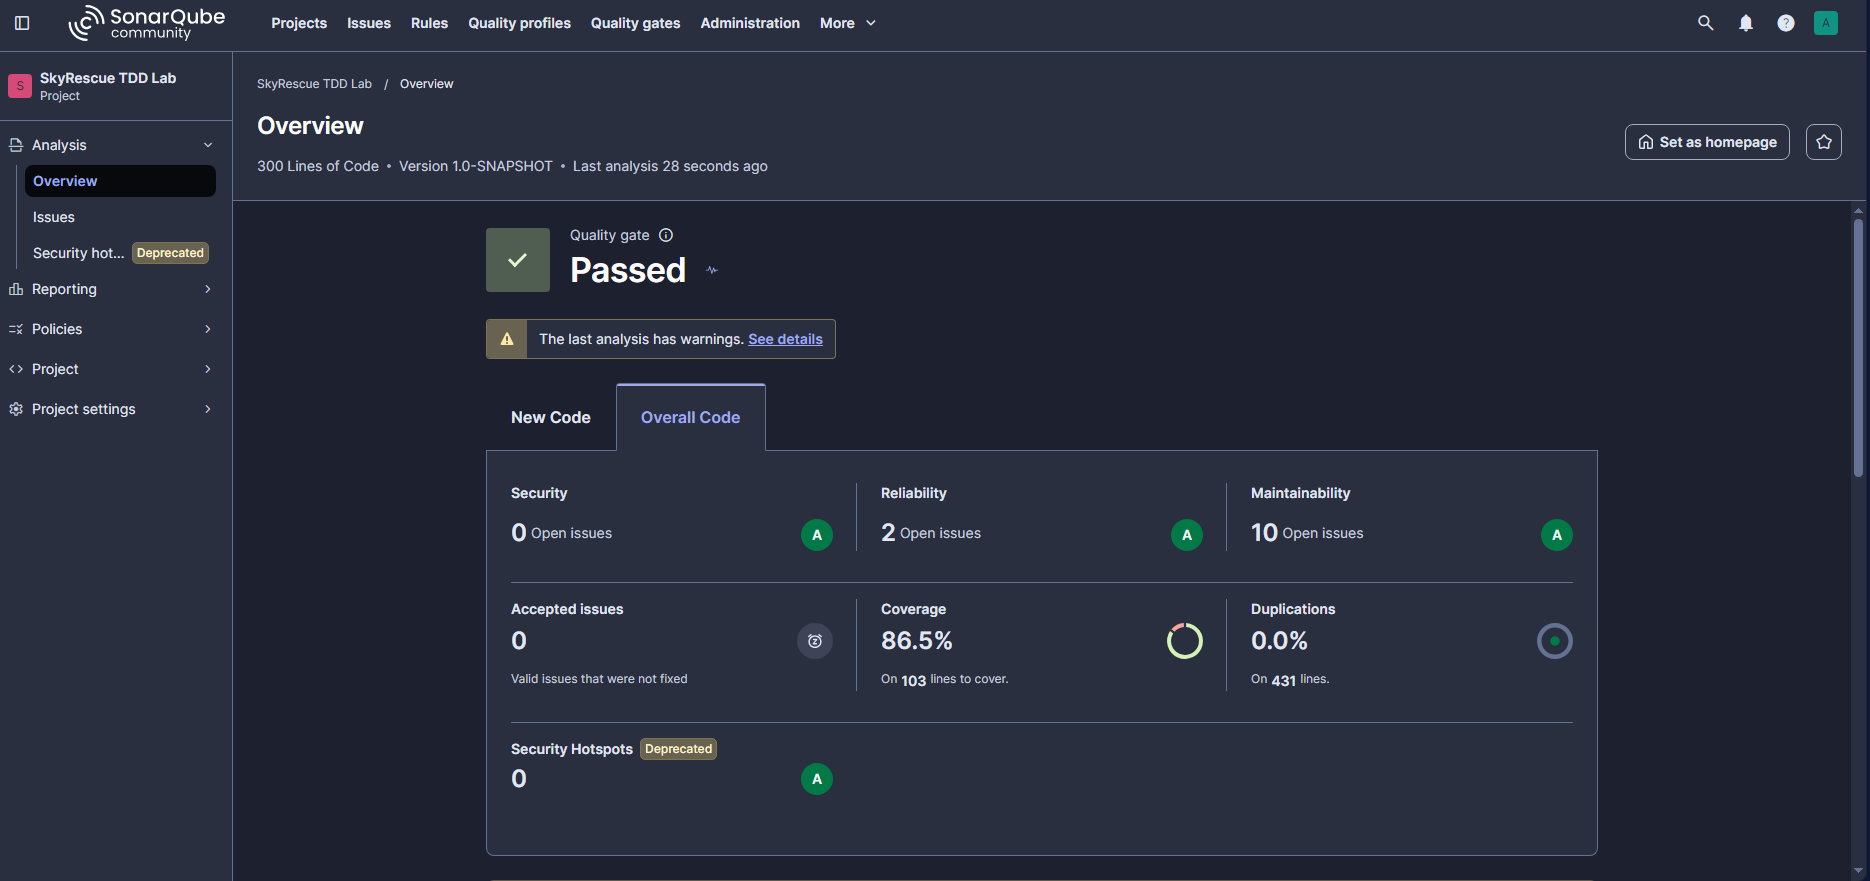
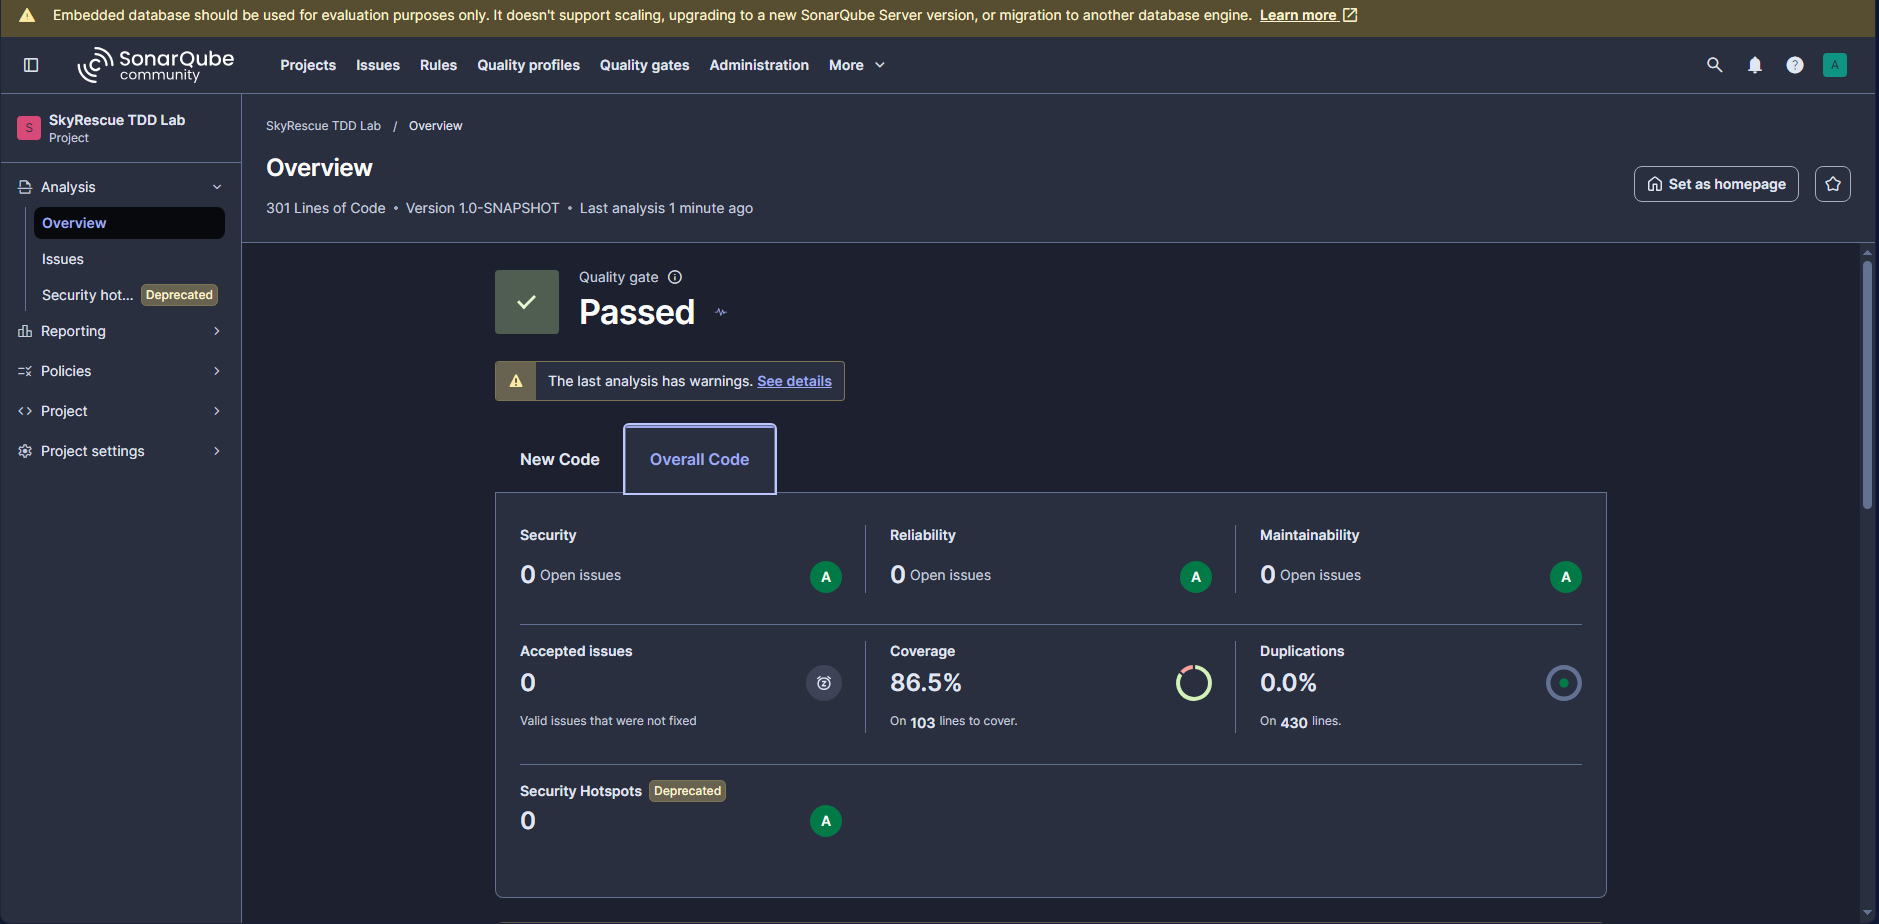
fix: resolve SonarQube issues (timezone, lambda invocations, unused modifiers) and add technical reflection

diff --git a/src/test/java/edu/eci/dosw/tdd/skyrescue/center/RescueCenterTest.java b/src/test/java/edu/eci/dosw/tdd/skyrescue/center/RescueCenterTest.java
@@ -14,7 +14,7 @@ import org.junit.jupiter.api.Test;
 
 import edu.eci.dosw.tdd.skyrescue.drone.Drone;
 
-public class RescueCenterTest {
+class RescueCenterTest {
 
     @Test
     void shouldRegisterDroneWhenDataIsValid() {
@@ -101,8 +101,10 @@ public class RescueCenterTest {
             center.addOperator(operator);
 
         // Act & Assert
+            String operatorId = operator.getId();
+            String droneId = drone.getId();
             assertThrows(IllegalArgumentException.class, () ->{
-                center.assignMission(operator.getId(), drone.getId(), "Zona A", 40);
+                center.assignMission(operatorId, droneId, "Zona A", 40);
         });
     }
 
@@ -114,8 +116,10 @@ public class RescueCenterTest {
             drone.setAvailable(false);
 
         // Act & Assert
+            String operatorId = operator.getId();
+            String droneId = drone.getId();
             assertThrows(IllegalStateException.class, () ->{
-                center.assignMission(operator.getId(), drone.getId(), "Zona A", 40);
+                center.assignMission(operatorId, droneId, "Zona A", 40);
         });
             
     }
@@ -128,8 +132,10 @@ public class RescueCenterTest {
 
 
         // Act & Assert
+            String operatorId = operator.getId();
+            String droneId = drone.getId();
             assertThrows(IllegalArgumentException.class, () ->{
-                center.assignMission(operator.getId(), drone.getId(), "Zona A", 60);
+                center.assignMission(operatorId, droneId, "Zona A", 60);
         });
             
     }
@@ -141,8 +147,10 @@ public class RescueCenterTest {
             center.addDrone(drone);
 
         // Act & Assert
+            String operatorId = operator.getId();
+            String droneId = drone.getId();
             assertThrows(IllegalArgumentException.class, () ->{
-                center.assignMission(operator.getId(), drone.getId(), "Zona A", 40);
+                center.assignMission(operatorId, droneId, "Zona A", 40);
         });
     }
 
@@ -156,8 +164,10 @@ public class RescueCenterTest {
             center.assignMission(operator.getId(), drone.getId(), "Zona A", 40);
 
         // Act & Assert
+            String operatorId = operator.getId();
+            String droneId = secondDrone.getId();
             assertThrows(IllegalStateException.class, () ->{
-                    center.assignMission(operator.getId(), secondDrone.getId(), "Zona A", 40);
+                    center.assignMission(operatorId, droneId, "Zona A", 40);
             });
     }
 
@@ -194,9 +204,11 @@ public class RescueCenterTest {
             center.completeMission(createdMission.getId());
 
         // Act & Assert
-            assertThrows(IllegalStateException.class, () ->{
-                    center.completeMission(createdMission.getId());
-            });
+            String missionId = createdMission.getId();
+
+            assertThrows(IllegalStateException.class, () -> {
+                center.completeMission(missionId);
+        });
     }
 
     @Test

diff --git a/src/main/java/edu/eci/dosw/tdd/skyrescue/center/RescueCenter.java b/src/main/java/edu/eci/dosw/tdd/skyrescue/center/RescueCenter.java
@@ -11,6 +11,7 @@ import java.util.List;
 import java.util.Map;
 import java.util.UUID;
 import java.time.LocalDateTime;
+import java.time.ZoneId;
 
 /**
  * Coordinates drones, operators and emergency missions.
@@ -110,7 +111,7 @@ public class RescueCenter {
         foundDrone.setAvailable(false);
         String id = UUID.randomUUID().toString();
 
-        Mission createdMission = new Mission(id, location, distanceKm, foundDrone, foundOperator, LocalDateTime.now(), MissionStatus.ACTIVE);
+        Mission createdMission = new Mission(id, location, distanceKm, foundDrone, foundOperator, LocalDateTime.now(ZoneId.systemDefault()), MissionStatus.ACTIVE);
 
         boolean result = hasActiveMission(foundOperator);
 
@@ -143,8 +144,6 @@ public class RescueCenter {
      * @return completed mission.
      */
     public Mission completeMission(String missionId) {
-        // TODO Implement using TDD.
-
         Mission foundMission = findMissionById(missionId);
 
         if(foundMission == null){
@@ -156,7 +155,7 @@ public class RescueCenter {
         }
 
         foundMission.setStatus(MissionStatus.COMPLETED);
-        foundMission.setEndDate(LocalDateTime.now());
+        foundMission.setEndDate(LocalDateTime.now(ZoneId.systemDefault()));
         Drone foundDrone = foundMission.getDrone();
         foundDrone.setAvailable(true);
 

diff --git a/README.md b/README.md
@@ -41,6 +41,29 @@ Quality Gate: **Passed**
 - Coverage: 86.5%
 - Duplications: 0.0%
 
+## Reflexión técnica
+
+1. **¿Qué error o comportamiento inesperado fue detectado primero gracias a una prueba?**
+   Al escribir la prueba para "dron inexistente" en `assignMission`, se detectó que el
+   código lanzaba `NullPointerException` en lugar de `IllegalArgumentException`, ya que
+   no existía ninguna validación antes de usar el resultado de `drones.get(droneId)`.
+
+2. **¿Qué parte del código cambió durante REFACTOR sin modificar el comportamiento?**
+   Se extrajo la lógica de búsqueda de operadores y misiones (usando streams de Java)
+   a métodos privados reutilizables (`findOperatorById`, `hasActiveMission`,
+   `findMissionById`), reduciendo la duplicación entre `assignMission` y `completeMission`.
+
+3. **¿Qué casos adicionales aparecieron al revisar la cobertura?**
+   Ninguno; el desarrollo siguiendo TDD desde el inicio ya garantizaba una cobertura
+   de líneas del 88% en la primera ejecución de JaCoCo, superando el mínimo requerido.
+
+4. **¿Qué hallazgo de SonarQube produjo un cambio real en el código?**
+   SonarQube detectó 12 issues de Maintainability y Reliability: 2 llamadas a
+   `LocalDateTime.now()` sin zona horaria explícita, 6 lambdas de prueba con
+   más de una invocación que podía lanzar excepción, 1 comentario TODO
+   pendiente, y 1 modificador `public` innecesario en la clase de test. Los
+   12 se corrigieron, llevando ambas métricas a 0 issues abiertos.
+
 ## Pull Requests
 
 - PR JUnit: https://github.com/Prometeus1439/DOSW_Lab5_Leguizamon/pull/1
@@ -49,4 +72,4 @@ Quality Gate: **Passed**
 - PR TDD assignMission: https://github.com/Prometeus1439/DOSW_Lab5_Leguizamon/pull/4
 - PR TDD completeMission: https://github.com/Prometeus1439/DOSW_Lab5_Leguizamon/pull/5
 - PR JaCoCo: https://github.com/Prometeus1439/DOSW_Lab5_Leguizamon/pull/6
-- PR SonarQube: #7
+- PR SonarQube: https://github.com/Prometeus1439/DOSW_Lab5_Leguizamon/pull/7
